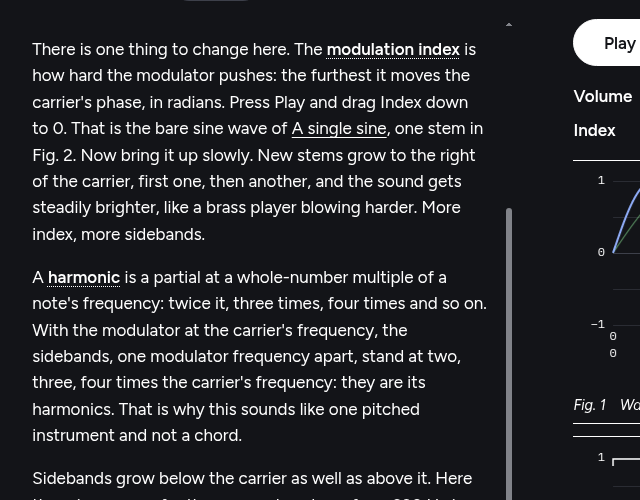
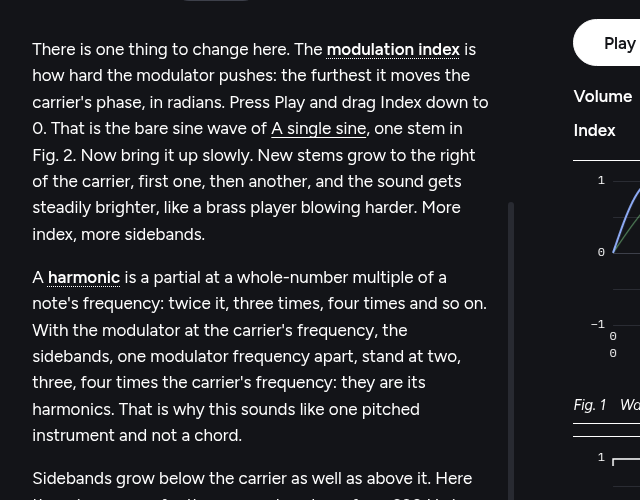
Make the scroll bar narrower and paler
Chrome, Edge and Safari now draw a 6 px bar (Chrome was 10 px): the
standard scrollbar properties, which make Chrome ignore the -webkit-
rules, go only to browsers without them (Firefox). The thumb rests
half-way between --rule and the paper and comes up to --rule when
pointed at; there are no buttons. Screenshots updated, with one from
WebKit.

Changed region(s): [[0.0312, 0.24, 0.75, 0.27], [0.7812, 0.39, 0.8125, 1.0]]

diff --git a/src/styles/base.css b/src/styles/base.css
@@ -20,18 +20,25 @@ body {
   margin: 0;
 }
 
-/* Scroll bars: thin, a --rule line on the paper with no track, darkening
-   toward ink while the area under the pointer is scrolled. Everywhere at
-   once: the page, the text pane, the lab, the contents panel. The
-   standard properties serve Chrome, Edge and Firefox; the -webkit- rules
-   serve Safari, which ignores them where the standard ones apply. */
-* {
-  scrollbar-color: var(--rule) transparent;
-  scrollbar-width: thin;
+/* Scroll bars: narrow and faint, a line paler than --rule with no track
+   or buttons, coming up to --rule under the pointer (the thumb itself in
+   Chrome and Safari; the whole area in Firefox). Everywhere at once: the page, the text pane, the lab, the
+   contents panel. Chrome, Edge and Safari draw the 6 px -webkit- bar;
+   Chrome would ignore it if the standard properties were set, so those go
+   only to browsers without it (Firefox), which draw their thin bar. */
+:root {
+  --scrollbar: color-mix(in srgb, var(--rule) 50%, var(--paper));
 }
 
-*:hover {
-  scrollbar-color: color-mix(in srgb, var(--rule), var(--ink) 35%) transparent;
+@supports not selector(::-webkit-scrollbar) {
+  * {
+    scrollbar-color: var(--scrollbar) transparent;
+    scrollbar-width: thin;
+  }
+
+  *:hover {
+    scrollbar-color: var(--rule) transparent;
+  }
 }
 
 ::-webkit-scrollbar {
@@ -44,17 +51,18 @@ body {
   background: transparent;
 }
 
+::-webkit-scrollbar-button {
+  display: none;
+}
+
 ::-webkit-scrollbar-thumb {
   border-radius: 3px;
-  background: var(--rule);
+  background: var(--scrollbar);
 }
 
-::-webkit-scrollbar-thumb:hover {
-  background: color-mix(in srgb, var(--rule), var(--ink) 35%);
-}
-
+::-webkit-scrollbar-thumb:hover,
 ::-webkit-scrollbar-thumb:active {
-  background: color-mix(in srgb, var(--rule), var(--ink) 60%);
+  background: var(--rule);
 }
 
 /* Wide enough for the two panes side by side. */

diff --git a/docs/specs/2026-10-13-fmlab-design.md b/docs/specs/2026-10-13-fmlab-design.md
@@ -511,14 +511,16 @@ A Lighthouse audit of production (mobile) found three things to fix.
 ## Subtle scroll bars (PR #20)
 
 - Every scrolling area (the page, the text pane and the lab in the
-  pinned layout, the contents panel, the glossary) has a thin scroll bar:
-  a --rule thumb on no track, a little darker toward --ink while the
-  pointer is over the area (and on Safari while dragging). Defined once at
-  the top of base.css with the standard `scrollbar-width` and
-  `scrollbar-color`, and `::-webkit-scrollbar` rules for Safari; tokens
-  only, so both themes follow. Scroll bars are never hidden, and
-  scrolling by keyboard and focus are unchanged.
-- Chrome's bar goes from 15 px to 10 px. Only the text pane's line
-  breaks change; the lab is a separate column and fits as before.
+  pinned layout, the contents panel, the glossary) has a narrow, faint
+  scroll bar: a thumb half-way between --rule and the paper on no track,
+  with no buttons, coming up to --rule under the pointer. Defined once at
+  the top of base.css with tokens only, so both themes follow. Scroll bars
+  are never hidden, and scrolling by keyboard and focus are unchanged.
+- Chrome, Edge and Safari draw the `::-webkit-scrollbar` bar, 6 px wide;
+  the thumb darkens when it is pointed at. Chrome ignores those rules
+  wherever the standard `scrollbar-width` / `scrollbar-color` apply, so
+  the standard ones are only for browsers without them (Firefox: its thin
+  bar, darker while the area is pointed at).
+- Chrome's bar goes from 15 px to 6 px. Only the text pane's line breaks
+  change; the lab is a separate column and fits as before.
 - Before and after: `docs/screenshots/scrollbar-*.png`.
-
